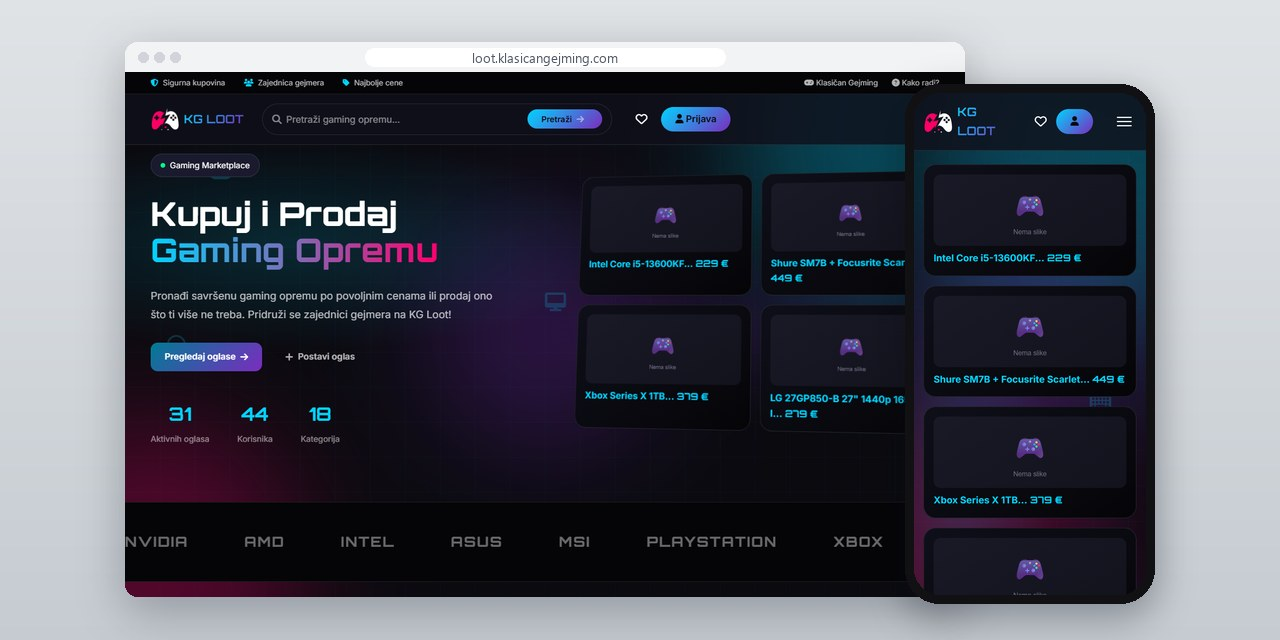
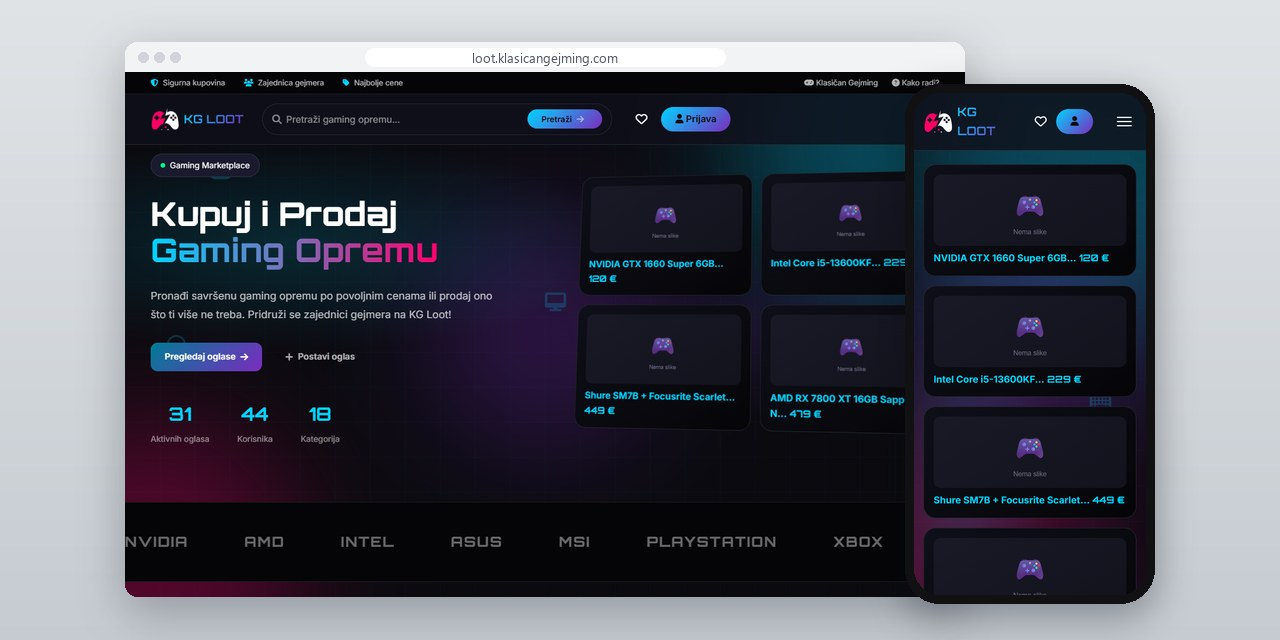
Update project page

diff --git a/README.sr.md b/README.sr.md
@@ -51,6 +51,12 @@ Lighthouse, laboratorijsko merenje živog sajta, septembar 2026.
   </tr>
 </table>
 
+<img src="media/inner-1.webp" alt="Pretraga oglasa po kategoriji">
+<sub>Pretraga oglasa po kategoriji</sub>
+
+<img src="media/inner-2.webp" alt="Kako funkcioniše kupovina i prodaja">
+<sub>Kako funkcioniše kupovina i prodaja</sub>
+
 ---
 
 <sub>Izrada: [D. Svilenković](https://svilenkovic.rs).</sub>

diff --git a/README.md b/README.md
@@ -51,6 +51,12 @@ Lighthouse, lab test of the live site, September 2026.
   </tr>
 </table>
 
+<img src="media/inner-1.webp" alt="Listing search by category">
+<sub>Listing search by category</sub>
+
+<img src="media/inner-2.webp" alt="How buying and selling works">
+<sub>How buying and selling works</sub>
+
 ---
 
 <sub>Built by [D. Svilenković](https://svilenkovic.com).</sub>
